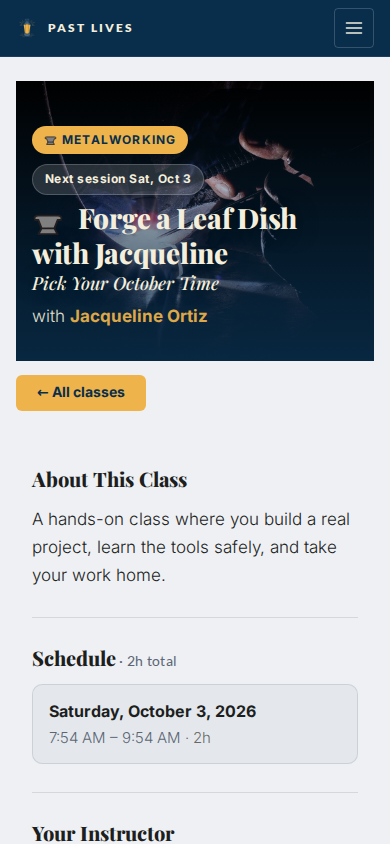
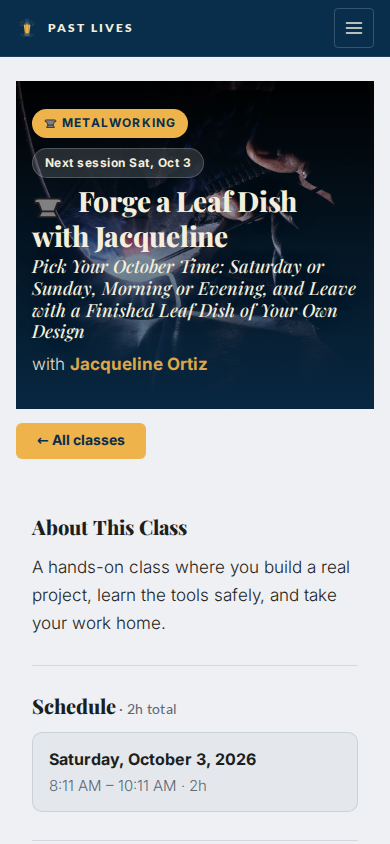
[classes] The class page hero grows to fit a long title or subtitle
The hero had a fixed height with its content pinned to the bottom, so on a
phone a long subtitle or title pushed the guild chip out of the top of the
box. It now takes a minimum height instead; a short title leaves it at its
usual size. A browser spec holds the chip inside the hero at phone and
desktop widths, and a raw insert spec covers the subtitle's database
default. The changelog fragment takes the PR number.

Claude-Session: https://claude.ai/code/session_01Rc6CwjUHGqphbzFnhxv4pQ

Changed region(s): [[0.0308, 0.1232, 0.9846, 1.0], [0.0308, 0.0924, 0.0615, 0.1232]]

diff --git a/static/css/cms-public.css b/static/css/cms-public.css
@@ -658,10 +658,13 @@ html.dark .cp-page {
 }
 
 /* ── Hero ──────────────────────────────────────── */
+/* min-height, not height: the content sits at the bottom, so a fixed box pushed the category
+   row out of the top once a long title or subtitle wrapped on a phone (#563). Short content
+   leaves the box at exactly this size; the image is absolutely inset, so it covers any height. */
 .cp-detail__hero {
   position: relative;
   width: 100%;
-  height: clamp(280px, 42vw, 520px);
+  min-height: clamp(280px, 42vw, 520px);
   background: var(--bg4);
   overflow: hidden;
   display: flex;

diff --git a/tests/e2e/class_page_hero_fit_spec.py b/tests/e2e/class_page_hero_fit_spec.py
@@ -1,0 +1,80 @@
+"""End-to-end: the class page hero grows to fit its content and never clips it (#563).
+
+The hero's content sits at the bottom of the box. While the box had a fixed height, a long
+title or subtitle that wrapped on a phone pushed the category row out of the top, where the
+box's overflow cut it off. Only a real browser lays the text out, so this drives the page at a
+phone width and at a desktop width: the category row and the byline stay inside the hero, the
+photo still covers the whole box, nothing scrolls sideways, and a class with no subtitle keeps
+the box at its usual size. Run with ``pytest -m e2e``.
+"""
+
+from __future__ import annotations
+
+from typing import Any
+from urllib.parse import urlparse
+
+import pytest
+from django.urls import reverse
+from playwright.sync_api import Page
+
+from classes.factories import ClassOfferingFactory
+from classes.models import ClassOffering
+
+WORDED_150 = (
+    "Pick Your October Time, Saturday or Sunday, Morning or Evening, Bring a Friend and Leave with a "
+    "Finished Leaf Dish of Your Own Design and Fresh Patina"
+)
+UNBROKEN_150 = ("PickYourOctoberTime" * 8)[:150]
+LONG_TITLE = "Forge a Leaf Dish at the Anvil, Then Patina, Polish and Seal It for the Table in One Long Afternoon"
+# The hero's floor at each width: clamp(280px, 42vw, 520px) in cms-public.css.
+FLOOR = {390: 280, 1366: 520}
+
+
+def _boxes(page: Page) -> dict[str, Any]:
+    return page.evaluate(
+        """() => {
+          const box = (s) => { const r = document.querySelector(s).getBoundingClientRect();
+                               return {top: r.top, bottom: r.bottom, left: r.left, right: r.right}; };
+          return {
+            hero: box('.cp-detail__hero'), img: box('.cp-detail__hero-img'),
+            row: box('.cp-detail__cat-row'), byline: box('.cp-detail__byline'),
+            overflow: document.documentElement.scrollWidth - document.documentElement.clientWidth,
+          };
+        }"""
+    )
+
+
+def describe_the_class_page_hero():
+    @pytest.mark.parametrize("width", [390, 1366])
+    def it_keeps_a_long_title_and_subtitle_inside_the_box(live_server, page: Page, serve_media, settings, width):
+        assert len(WORDED_150) == len(UNBROKEN_150) == 150
+        cases = [
+            ClassOfferingFactory(status=ClassOffering.Status.PUBLISHED, subtitle=WORDED_150),
+            ClassOfferingFactory(status=ClassOffering.Status.PUBLISHED, subtitle=UNBROKEN_150),
+            ClassOfferingFactory(
+                status=ClassOffering.Status.PUBLISHED, title=LONG_TITLE, slug="long-title-hero", subtitle=WORDED_150
+            ),
+        ]
+        settings.PUBLIC_HOSTS = [urlparse(live_server.url).hostname]
+        page.set_viewport_size({"width": width, "height": 900})
+        for offering in cases:
+            page.goto(f"{live_server.url}{reverse('classes:public_class_detail', kwargs={'slug': offering.slug})}")
+            page.wait_for_load_state("networkidle")
+            page.evaluate("document.fonts.ready.then(() => true)")
+            boxes = _boxes(page)
+            hero = boxes["hero"]
+            assert boxes["row"]["top"] >= hero["top"], offering.subtitle
+            assert boxes["byline"]["bottom"] <= hero["bottom"], offering.subtitle
+            assert boxes["img"] == hero, offering.subtitle
+            assert boxes["overflow"] == 0, offering.subtitle
+
+    @pytest.mark.parametrize("width", [390, 1366])
+    def it_keeps_its_usual_size_without_a_subtitle(live_server, page: Page, serve_media, settings, width):
+        offering = ClassOfferingFactory(status=ClassOffering.Status.PUBLISHED)
+        settings.PUBLIC_HOSTS = [urlparse(live_server.url).hostname]
+        page.set_viewport_size({"width": width, "height": 900})
+        page.goto(f"{live_server.url}{reverse('classes:public_class_detail', kwargs={'slug': offering.slug})}")
+        page.wait_for_load_state("networkidle")
+        box = page.locator(".cp-detail__hero").bounding_box()
+        assert box is not None
+        assert box["height"] == FLOOR[width]

diff --git a/tests/classes/class_subtitle_spec.py b/tests/classes/class_subtitle_spec.py
@@ -12,6 +12,7 @@ import re
 
 import pytest
 from django.contrib.auth.models import User
+from django.db import connection
 from django.test import Client
 from django.urls import reverse
 
@@ -86,6 +87,20 @@ def describe_the_subtitle_field():
         offering = ClassOfferingFactory()
         offering.refresh_from_db()
         assert offering.subtitle == ""
+
+    def it_fills_a_blank_subtitle_when_the_previous_release_inserts_a_class():
+        # The migration applies while the previous release still serves (STANDARDS.md section 10),
+        # and that release's INSERT names every column it knows, which is every one but subtitle.
+        unsaved = ClassOfferingFactory.build(category=CategoryFactory(), instructor=None, image="", slug="old-release")
+        fields = [f for f in ClassOffering._meta.concrete_fields if not f.primary_key and f.name != "subtitle"]
+        quote = connection.ops.quote_name
+        with connection.cursor() as cursor:
+            cursor.execute(
+                f"INSERT INTO {quote(ClassOffering._meta.db_table)} ({', '.join(quote(f.column) for f in fields)}) "
+                f"VALUES ({', '.join(['%s'] * len(fields))})",
+                [f.get_db_prep_save(f.pre_save(unsaved, add=True), connection) for f in fields],
+            )
+        assert ClassOffering.objects.get(slug="old-release").subtitle == ""
 
     @pytest.mark.parametrize("form_class", [ClassOfferingForm, TeachClassOfferingForm, TeachPublishedClassForm])
     def it_takes_at_most_150_characters(form_class):
